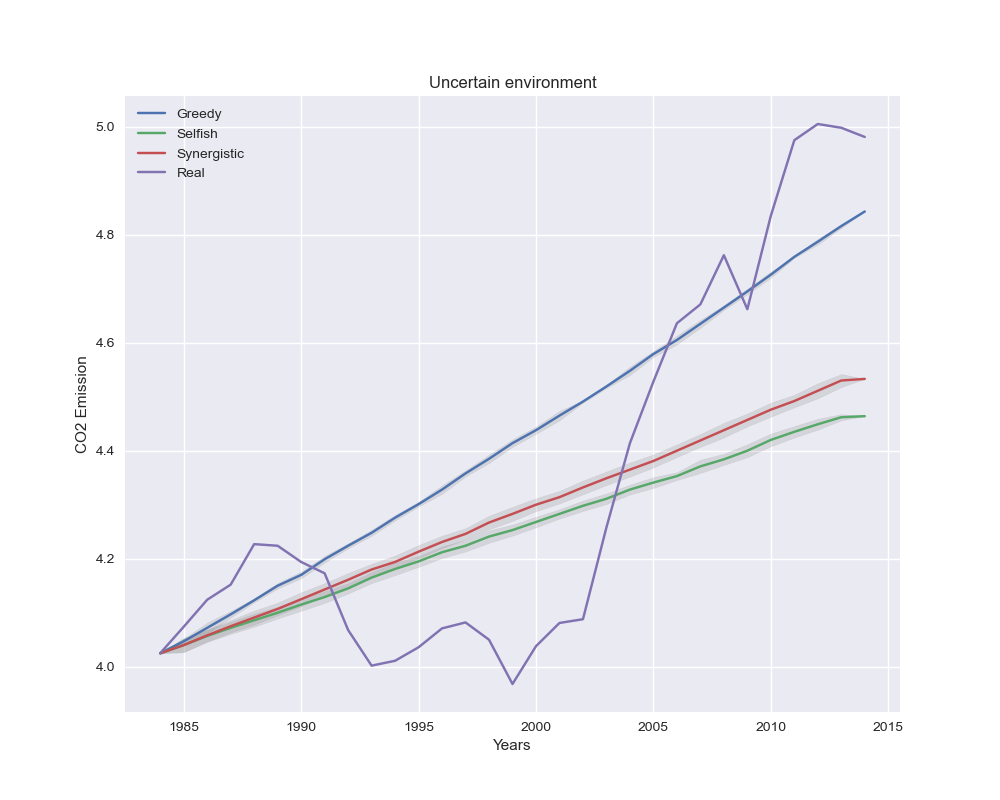
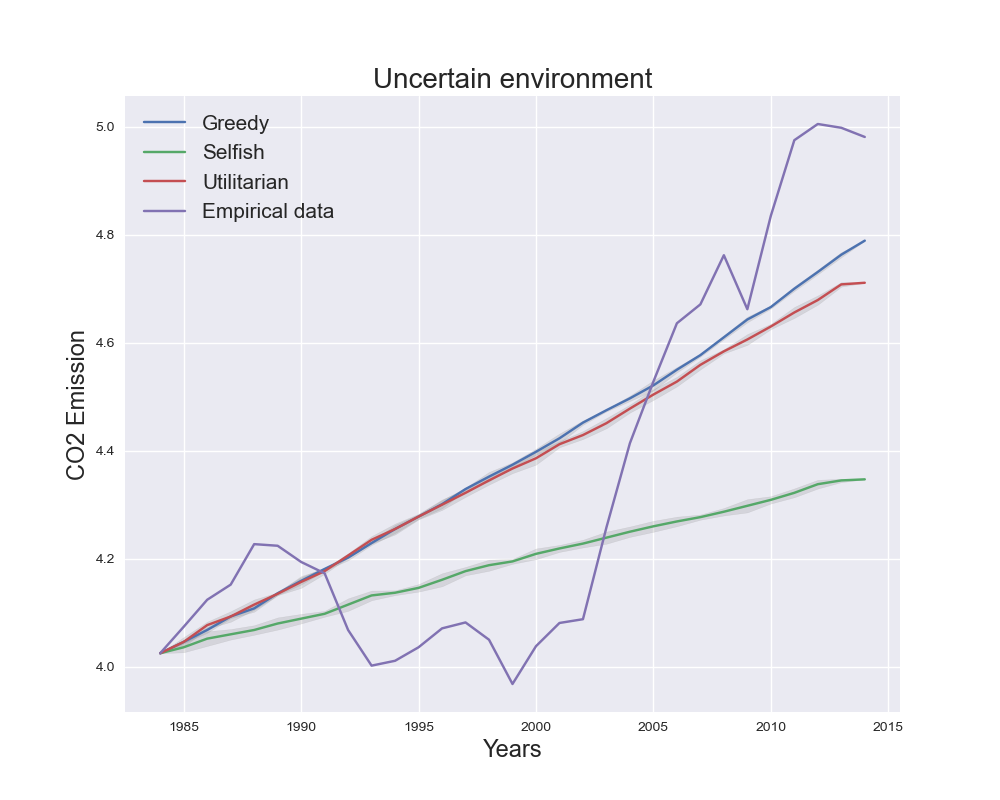
05.01.2022

diff --git a/plotting.py b/plotting.py
@@ -3,13 +3,16 @@ import numpy as np
 import os, random
 import pandas as pd
 import matplotlib.pyplot as plt
+from matplotlib import pyplot
 from evaluate import evaluate_RL
+from scipy import stats
 plt.style.use('seaborn')
 
+
 #evaluate RL across several runs with 40 learning epochs
-test_runs = 10
+test_runs = 5
 LT_Greedy_list,MT_Greedy_list,ST_Greedy_list, LT_Selfish_Plan_list,MT_Selfish_Plan_list,ST_Selfish_Plan_list, LT_Synergistic_list,MT_Synergistic_list,ST_Synergistic_list, Q_LT_average_list, Q_MT_average_list, Q_ST_average_list = [],[],[],[],[],[],[],[],[],[],[],[]
-LT_Greedy_u_list,MT_Greedy_u_list,ST_Greedy_u_list, LT_Selfish_Plan_u_list,MT_Selfish_Plan_u_list,ST_Selfish_Plan_u_list, LT_Synergistic_u_list,MT_Synergistic_u_list,ST_Synergistic_u_list, Q_LT_average_u_list, Q_MT_average_u_list, Q_ST_average_u_list  = [],[],[],[],[],[],[],[],[],[],[],[]
+LT_Greedy_u_list,MT_Greedy_u_list,ST_Greedy_u_list, LT_Selfish_Plan_u_list,MT_Selfish_Plan_u_list,ST_Selfish_Plan_u_list, LT_Synergistic_u_list,MT_Synergistic_u_list,ST_Synergistic_u_list, Q_LT_average_u_list, Q_MT_average_u_list, Q_ST_average_u_list = [],[],[],[],[],[],[],[],[],[],[],[]
 
 
 for i in range(0, test_runs): 
@@ -27,7 +30,7 @@ for i in range(0, test_runs):
     Q_LT_average_list.append(Q_LT_average)
     Q_MT_average_list.append(Q_MT_average)
     Q_ST_average_list.append(Q_ST_average)
-
+    
     #save uncertain runs
     _, _, _, _, LT_Greedy, MT_Greedy,ST_Greedy, LT_Selfish_Plan,MT_Selfish_Plan,ST_Selfish_Plan, LT_Synergistic,MT_Synergistic,ST_Synergistic, Q_LT_average, Q_MT_average, Q_ST_average = evaluate_RL('uncertain')
     LT_Greedy_u_list.append(LT_Greedy)
@@ -42,6 +45,7 @@ for i in range(0, test_runs):
     Q_LT_average_u_list.append(Q_LT_average)
     Q_MT_average_u_list.append(Q_MT_average)
     Q_ST_average_u_list.append(Q_ST_average)
+   
     
 #average Q-values 
 Q_LT_average_mean = np.average(Q_LT_average_list, axis=0)
@@ -127,7 +131,7 @@ Synergistic_data = np.array([LT_Synergistic_mean, ST_Synergistic_mean, MT_Synerg
 all_policies_certainty_std = np.std([np.average(Greedy_data, axis = 0), np.insert(np.average(Selfish_data, axis = 0), 0, 0), np.insert(np.average(Synergistic_data, axis = 0), 0, 0)], axis = 0)
 
 #save population arrays
-Population_LT, Population_ST, Population_MT, Population_array, _,_,_, _,_,_, _,_,_, _,_,_ = evaluate_RL('uncertain')
+Population_LT, Population_ST, Population_MT, Population_array, _,_,_, _,_,_, _,_,_, _,_,_, = evaluate_RL('uncertain')
 
 #loading dataFrames of empirical data for all years for all countries
 LT_df = pd.read_csv(os.path.join('Reducing-the-Global-Carbon-Footprint-based-on-MARL', 'metadata','LT_db.csv'), index_col=0)
@@ -160,9 +164,42 @@ global_trend_Greedy = get_trend(LT_Greedy_mean,MT_Greedy_mean,ST_Greedy_mean)
 global_trend_Selfish = get_trend(LT_Selfish_Plan_mean,MT_Selfish_Plan_mean,ST_Selfish_Plan_mean)
 global_trend_Synergistic = get_trend(LT_Synergistic_mean,MT_Synergistic_mean,ST_Synergistic_mean)
 
+print("certain greedy:", global_trend_Greedy[-1])
+print("certain selfish:", global_trend_Selfish[-1])
+print("certain util:", global_trend_Synergistic[-1])
+
+
 global_trend_Greedy_u = get_trend(LT_Greedy_u_mean,MT_Greedy_u_mean,ST_Greedy_u_mean)
 global_trend_Selfish_u = get_trend(LT_Selfish_Plan_u_mean,MT_Selfish_Plan_u_mean,ST_Selfish_Plan_u_mean)
 global_trend_Synergistic_u = get_trend(LT_Synergistic_u_mean,MT_Synergistic_u_mean,ST_Synergistic_u_mean)
+
+print("uncertain greedy:", global_trend_Greedy_u[-1])
+print("uncertain selfish:", global_trend_Selfish_u[-1])
+print("uncertain util:", global_trend_Synergistic_u[-1])
+'''
+plt.hist(global_trend_Greedy_u)
+plt.show()
+plt.hist(global_trend_Greedy)
+plt.show()
+
+plt.hist(global_trend_Selfish_u)
+plt.show()
+plt.hist(global_trend_Selfish)
+plt.show()
+
+plt.hist(global_trend_Synergistic_u)
+plt.show()
+plt.hist(global_trend_Synergistic)
+plt.show()
+'''
+t_test_greedy = stats.ttest_ind(global_trend_Greedy, global_trend_Greedy_u)
+print("t-test greedy", t_test_greedy)
+
+t_test_selfish = stats.ttest_ind(global_trend_Selfish, global_trend_Selfish_u)
+print("t-test selfish", t_test_selfish)
+
+t_test_util = stats.ttest_ind(global_trend_Synergistic, global_trend_Synergistic_u)
+print("t-test util", t_test_util)
 
 #ALL Policies certain
 plt.figure(figsize=(10,8))
@@ -183,10 +220,10 @@ plt.fill_between(years_array,std_upper_greedy, std_lower_greedy,
                  color='gray', alpha=0.2)
 
 
-plt.xlabel('Years')
-plt.ylabel('CO2 Emission')
-plt.legend(['Greedy','Selfish','Synergistic','Real'])
-plt.title("Certain environment")
+plt.xlabel('Years', fontsize=17)
+plt.ylabel('CO2 Emission', fontsize=17)
+plt.legend(['Greedy','Selfish','Utilitarian','Empirical data'], fontsize=15)
+plt.title("Certain environment", fontsize=20)
 plt.savefig('Reducing-the-Global-Carbon-Footprint-based-on-MARL/plots/environment_certain.png')
 #plt.show()
 
@@ -208,18 +245,26 @@ plt.fill_between(years_array,std_upper_u_selfish, std_lower_u_selfish,
 plt.fill_between(years_array,std_upper_u_greedy, std_lower_u_greedy,
                  color='gray', alpha=0.2)
 
-plt.xlabel('Years')
-plt.ylabel('CO2 Emission')
-plt.legend(['Greedy','Selfish','Synergistic','Real'])
-plt.title("Uncertain environment")
+plt.xlabel('Years', fontsize=17)
+plt.ylabel('CO2 Emission', fontsize=17)
+plt.legend(['Greedy','Selfish','Utilitarian','Empirical data'],fontsize=15)
+plt.title("Uncertain environment", fontsize=20)
 plt.savefig('Reducing-the-Global-Carbon-Footprint-based-on-MARL/plots/environment_uncertain.png')
 
 #Mean of uncertainty and certainty
-data = np.array([global_trend_Greedy, global_trend_Selfish, global_trend_Synergistic])
-all_policies_certain = np.average(data, axis=0)
+data_certain = np.array([global_trend_Greedy, global_trend_Selfish, global_trend_Synergistic])
+all_policies_certain = np.average(data_certain, axis=0)
+print("average certain",all_policies_certain[-1])
 
-data = np.array([global_trend_Greedy_u, global_trend_Selfish_u, global_trend_Synergistic_u])
-all_policies_uncertain = np.average(data, axis=0)
+data_uncertain = np.array([global_trend_Greedy_u, global_trend_Selfish_u, global_trend_Synergistic_u])
+all_policies_uncertain = np.average(data_uncertain, axis=0)
+print("average uncertain",all_policies_uncertain[-1])
+
+
+####TTEST#####
+t_test_certainty = stats.ttest_ind(all_policies_certain, all_policies_uncertain)
+print("ttest certainty", t_test_certainty)
+
 
 plt.figure(figsize=(10,8))
 plt.plot(years_array,all_policies_uncertain)
@@ -240,10 +285,10 @@ plt.fill_between(years_array,std_upper_certain, std_lower_certain,
                  color='gray', alpha=0.2)
 
 #add legends
-plt.xlabel('Years')
-plt.ylabel('CO2 Emission')
-plt.legend(['Uncertain (average)', 'Certain (average)','Real'])
-plt.title("Comparison of conditions")
+plt.xlabel('Years', fontsize=17)
+plt.ylabel('CO2 Emission', fontsize=17)
+plt.legend(['Uncertain (average)', 'Certain (average)','Real'], fontsize=15)
+plt.title("Comparison of conditions", fontsize=20)
 plt.savefig('Reducing-the-Global-Carbon-Footprint-based-on-MARL/plots/comparison_of_conditions.png')
 
 ##Certain learning
@@ -256,10 +301,10 @@ plt.plot(epochs, Q_MT_average_mean)
 plt.plot(epochs, Q_ST_average_mean)
 
 #add legends
-plt.xlabel('Epochs')
-plt.ylabel('Average Q-value')
-plt.legend(['Average Q-values for LT', 'Average Q-values for MT','Average Q-values for ST'])
-plt.title("Learning over epochs, Certain environment")
+plt.xlabel('Epochs', fontsize=17)
+plt.ylabel('Average Q-value', fontsize=17)
+plt.legend(['Average Q-values for LT', 'Average Q-values for MT','Average Q-values for ST'], fontsize=15)
+plt.title("Learning over epochs, Certain environment", fontsize=20)
 plt.savefig('Reducing-the-Global-Carbon-Footprint-based-on-MARL/plots/learning_over_epochs_certain.png')
 
 ##Certain learning
@@ -272,8 +317,8 @@ plt.plot(epochs, Q_ST_average_u_mean)
 plt.axis([0, 40, 0, 0.025])
 
 #add legends
-plt.xlabel('Epochs')
-plt.ylabel('Average Q-value')
-plt.legend(['Average Q-values for LT', 'Average Q-values for MT','Average Q-values for ST'])
-plt.title("Learning over epochs, Uncertain environment")
+plt.xlabel('Epochs', fontsize=17)
+plt.ylabel('Average Q-value', fontsize=17)
+plt.legend(['Average Q-values for LT', 'Average Q-values for MT','Average Q-values for ST'], fontsize=15)
+plt.title("Learning over epochs, Uncertain environment", fontsize=20)
 plt.savefig('Reducing-the-Global-Carbon-Footprint-based-on-MARL/plots/learning_over_epochs_uncertain.png')

diff --git a/evaluate.py b/evaluate.py
@@ -15,7 +15,10 @@ def evaluate_RL(condition):
         global_state_per_epoch, immediate_rewards_per_epoch, cumulative_reward_per_epoch, Q_LT, Q_MT, Q_ST, Q_LT_per_epoch, Q_MT_per_epoch, Q_ST_per_epoch, LT_action_space, MT_action_space, ST_action_space, Population_LT, Population_ST, Population_MT, Population_array, Q_LT_average, Q_MT_average, Q_ST_average = RL_loop('uncertain')
 
     #evaluating the trained model
-    print('Lowest Global State Achived During this Game: ',np.min(global_state_per_epoch)) #print the lowest global state per epoch. Maybe average over epochs?
+    #print('Lowest Global State Achived During this Game: ',np.min(global_state_per_epoch)) #print the lowest global state per epoch. Maybe average over epochs?
+    
+    
+    '''
     print('\n')
     print("Lowest Immediate Reward for LT: ",np.min(immediate_rewards_per_epoch[:, 0])) #print the learning outcome of 30 years of interacting with the environment
     print("Lowest Immediate Reward for MT: ",np.min(immediate_rewards_per_epoch[:, 1]))
@@ -28,20 +31,21 @@ def evaluate_RL(condition):
     print(pd.DataFrame(Q_MT).head())
     print('Q_ST: \n')
     print(pd.DataFrame(Q_ST).head())
-
+    '''
     #Synergistic Policy
     Q_LT_Best = Q_LT_per_epoch[np.argmin(cumulative_reward_per_epoch)] # return the Q-table indices with the lowest cumulative reward per epoch 
     Q_MT_Best = Q_MT_per_epoch[np.argmin(cumulative_reward_per_epoch)]
     Q_ST_Best = Q_ST_per_epoch[np.argmin(cumulative_reward_per_epoch)]
 
-
     LT_Synergistic = [LT_action_space[i] for i in Q_LT_Best[1:]] #get all the actions frm the best Q-values regarding cumulative reward (disregarding the first year)
     MT_Synergistic = [MT_action_space[i] for i in Q_MT_Best[1:]]
     ST_Synergistic = [ST_action_space[i] for i in Q_ST_Best[1:]]
-
+    '''
     print("LT's Strategy to achieve Lowest Cumulative Reward:\n",LT_Synergistic)
     print("\nMT's Strategy to achieve Lowest Cumulative Reward:\n",MT_Synergistic)
     print("\nST's Strategy to achieve Lowest Cumulative Reward:\n",ST_Synergistic)
+    '''
+    
 
     #Selfish Planning Policy
     Q_LT_Immediate_Best = Q_LT_per_epoch[np.argmin(immediate_rewards_per_epoch[:, 0])] # return the Q-table indices with the lowest immediate reward per epoch per agent (LT, MT, ST)
@@ -51,17 +55,22 @@ def evaluate_RL(condition):
     LT_Selfish_Plan = [LT_action_space[i] for i in Q_LT_Immediate_Best[1:]]
     MT_Selfish_Plan = [MT_action_space[i] for i in Q_MT_Immediate_Best[1:]]
     ST_Selfish_Plan = [ST_action_space[i] for i in Q_ST_Immediate_Best[1:]]
-
+    '''
     print("LT's Strategy to achieve Lowest Immediate Reward:\n",LT_Selfish_Plan)
     print("\nMT's Strategy to achieve Lowest Immediate Reward:\n",MT_Selfish_Plan)
     print("\nST's Strategy to achieve Lowest Immediate Reward:\n",ST_Selfish_Plan)
+    '''
+    
 
     #Greedy Policy
     LT_Greedy = [LT_action_space[i] for i in np.argmin(Q_LT, axis=1)] #return the action of the indice of the smallest value per year in the Q-table from the last epoch 
     MT_Greedy = [MT_action_space[i] for i in np.argmin(Q_MT, axis=1)]
     ST_Greedy = [ST_action_space[i] for i in np.argmin(Q_ST, axis=1)]
+    '''
     print("\nGreedy Policy of LT, based on LT's Final Q-Table:\n",LT_Greedy)
     print("\nGreedy Policy of MT, based on MT's Final Q-Table:\n",MT_Greedy)
     print("\nGreedy Policy of ST, based on ST's Final Q-Table:\n",ST_Greedy)
-
+    '''
+  
     return Population_LT, Population_ST, Population_MT, Population_array, LT_Greedy,MT_Greedy,ST_Greedy, LT_Selfish_Plan,MT_Selfish_Plan,ST_Selfish_Plan, LT_Synergistic,MT_Synergistic,ST_Synergistic, Q_LT_average, Q_MT_average, Q_ST_average
+    

diff --git a/RL_function.py b/RL_function.py
@@ -112,7 +112,7 @@ def RL_loop(condition):
         cumulative_reward = 0  #intially 0
 
         alpha = 0.1  #learning rate
-        sigma = 0.2
+        sigma = 0.25
         
         #exploration vs explotation
         LT_epsilon = 0.9
